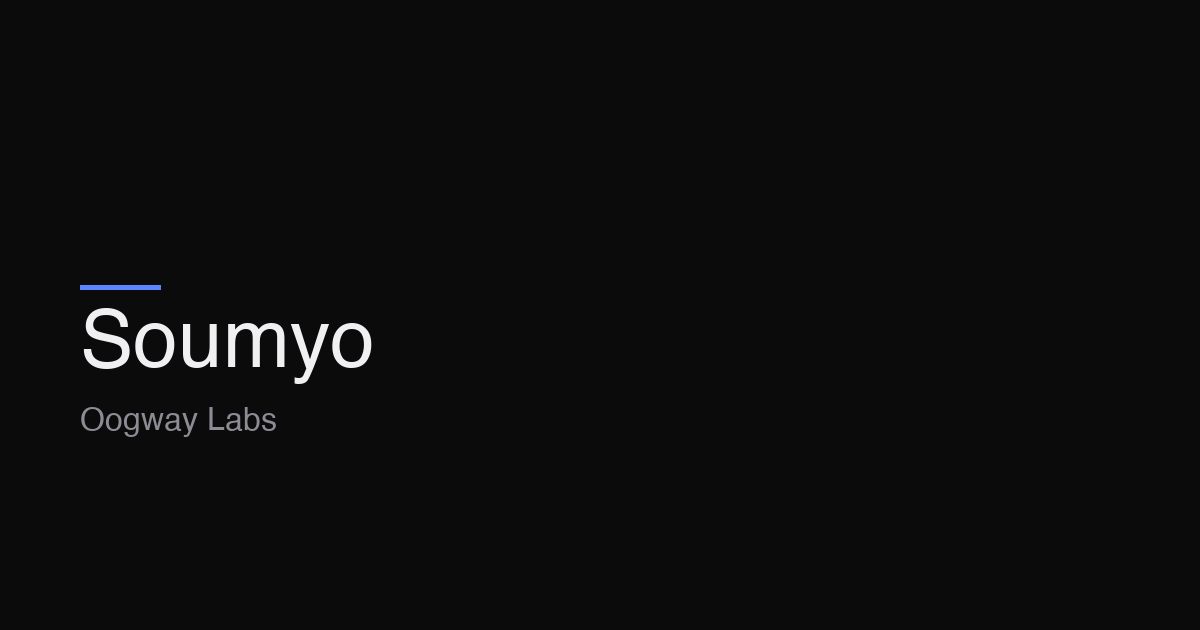
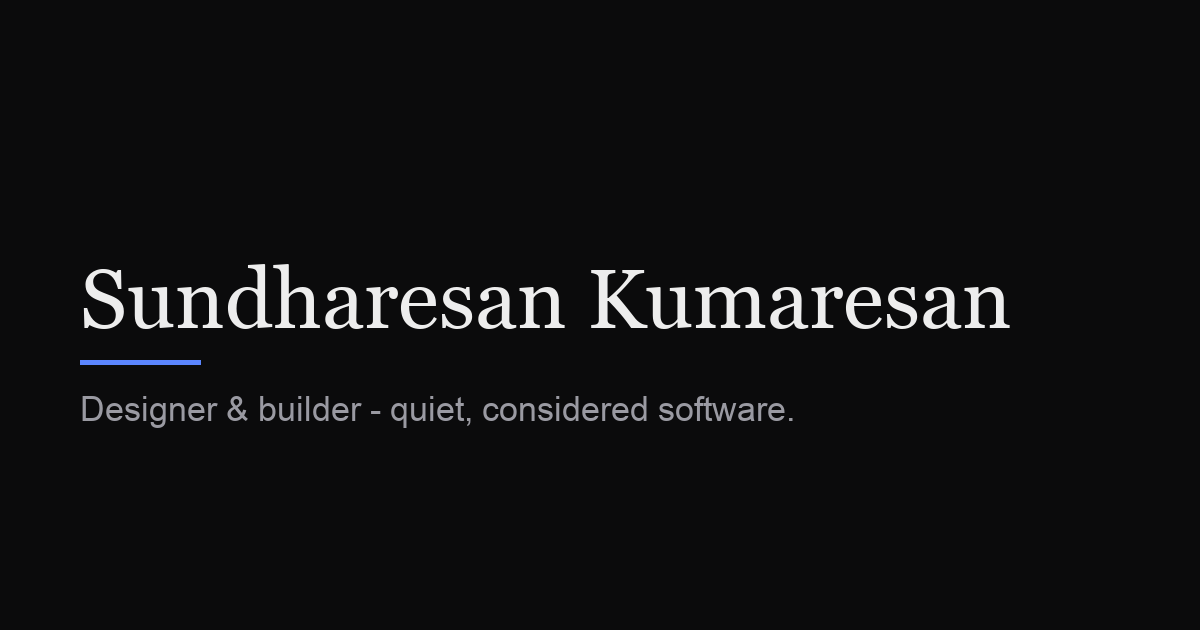
feat: identity sweep -> Sundharesan Kumaresan; regenerate OG card

Changed region(s): [[0.0617, 0.4222, 0.8633, 0.6937]]

diff --git a/src/content/projects/atlas.md b/src/content/projects/atlas.md
@@ -10,4 +10,4 @@ url: https://example.com/atlas
 Placeholder copy. Atlas reframes note-taking as wayfinding — replace with the real write-up.
 
 ## Role
-Design + build. Replace with Soumyo's actual contribution.
+Design + build. Replace with the actual contribution details.
